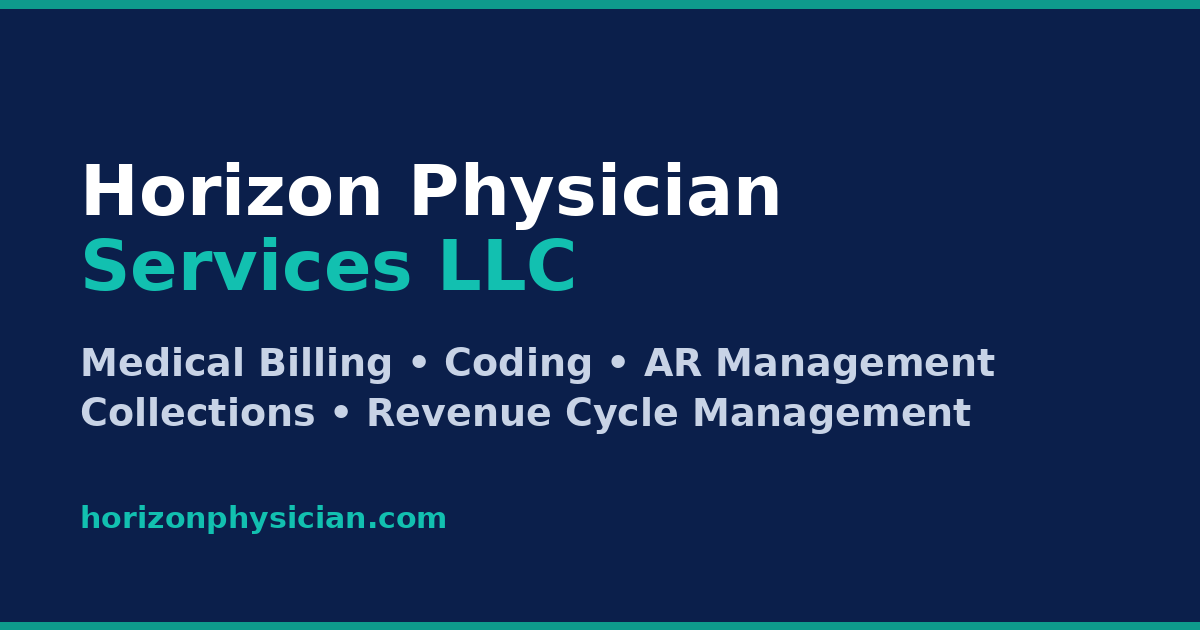
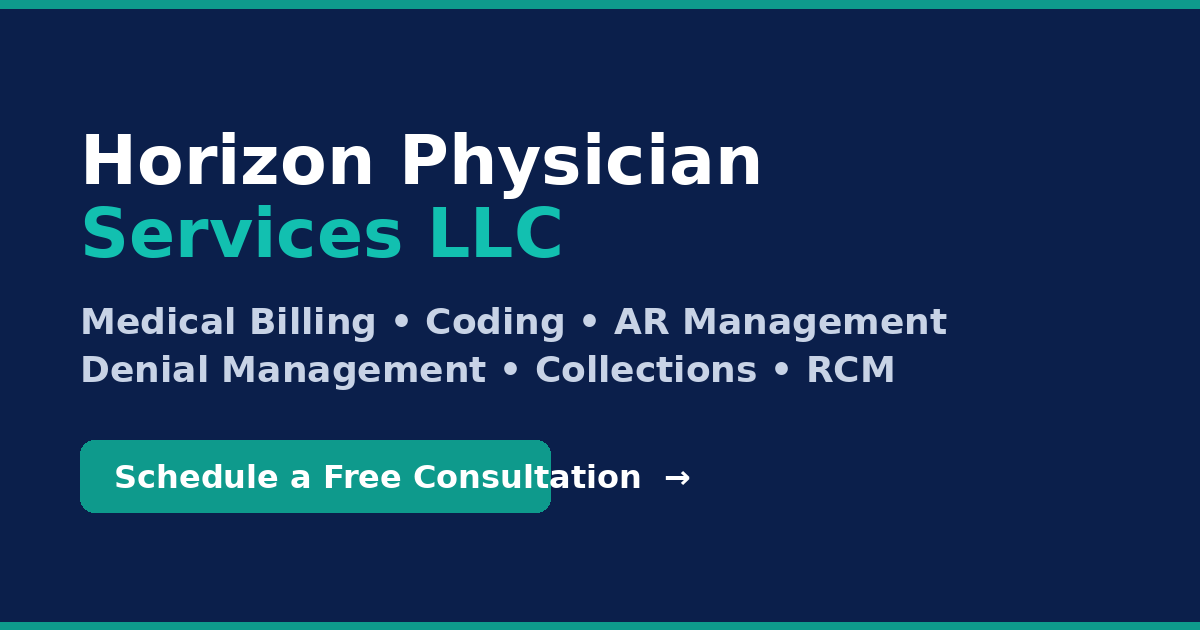
SEO polish: shorter title/description, CTA on share image

Changed region(s): [[0.0617, 0.2111, 0.8325, 0.8444]]

diff --git a/index.html b/index.html
@@ -3,8 +3,8 @@
 <head>
   <meta charset="UTF-8" />
   <meta name="viewport" content="width=device-width, initial-scale=1.0" />
-  <title>Horizon Physician Services LLC | Medical Billing & Revenue Cycle Management</title>
-  <meta name="description" content="Expert medical billing, coding, AR management, insurance follow-up, denial management, and collections support that help healthcare providers maximize revenue." />
+  <title>Medical Billing & Coding | Horizon Physician Services</title>
+  <meta name="description" content="Expert medical billing, coding, AR management, and collections support that help healthcare providers maximize revenue and reduce denials." />
   <link rel="icon" type="image/png" href="/logo.png" />
   <link rel="apple-touch-icon" href="/logo.png" />
   <meta name="keywords" content="medical billing, revenue cycle management, AR management, insurance follow-up, denial management, collections support, medical coding, personal injury billing, BPO, call center" />
@@ -14,8 +14,8 @@
   <!-- Open Graph / social sharing -->
   <meta property="og:type" content="website" />
   <meta property="og:site_name" content="Horizon Physician Services LLC" />
-  <meta property="og:title" content="Horizon Physician Services LLC | Medical Billing & Revenue Cycle Management" />
-  <meta property="og:description" content="Expert medical billing, coding, AR management, insurance follow-up, collections, and BPO call center support that help healthcare providers maximize revenue." />
+  <meta property="og:title" content="Medical Billing & Coding | Horizon Physician Services" />
+  <meta property="og:description" content="Expert medical billing, coding, AR management, and collections support that help healthcare providers maximize revenue and reduce denials." />
   <meta property="og:url" content="https://horizonphysician.com/" />
   <meta property="og:image" content="https://horizonphysician.com/og-image.png" />
   <meta property="og:image:width" content="1200" />